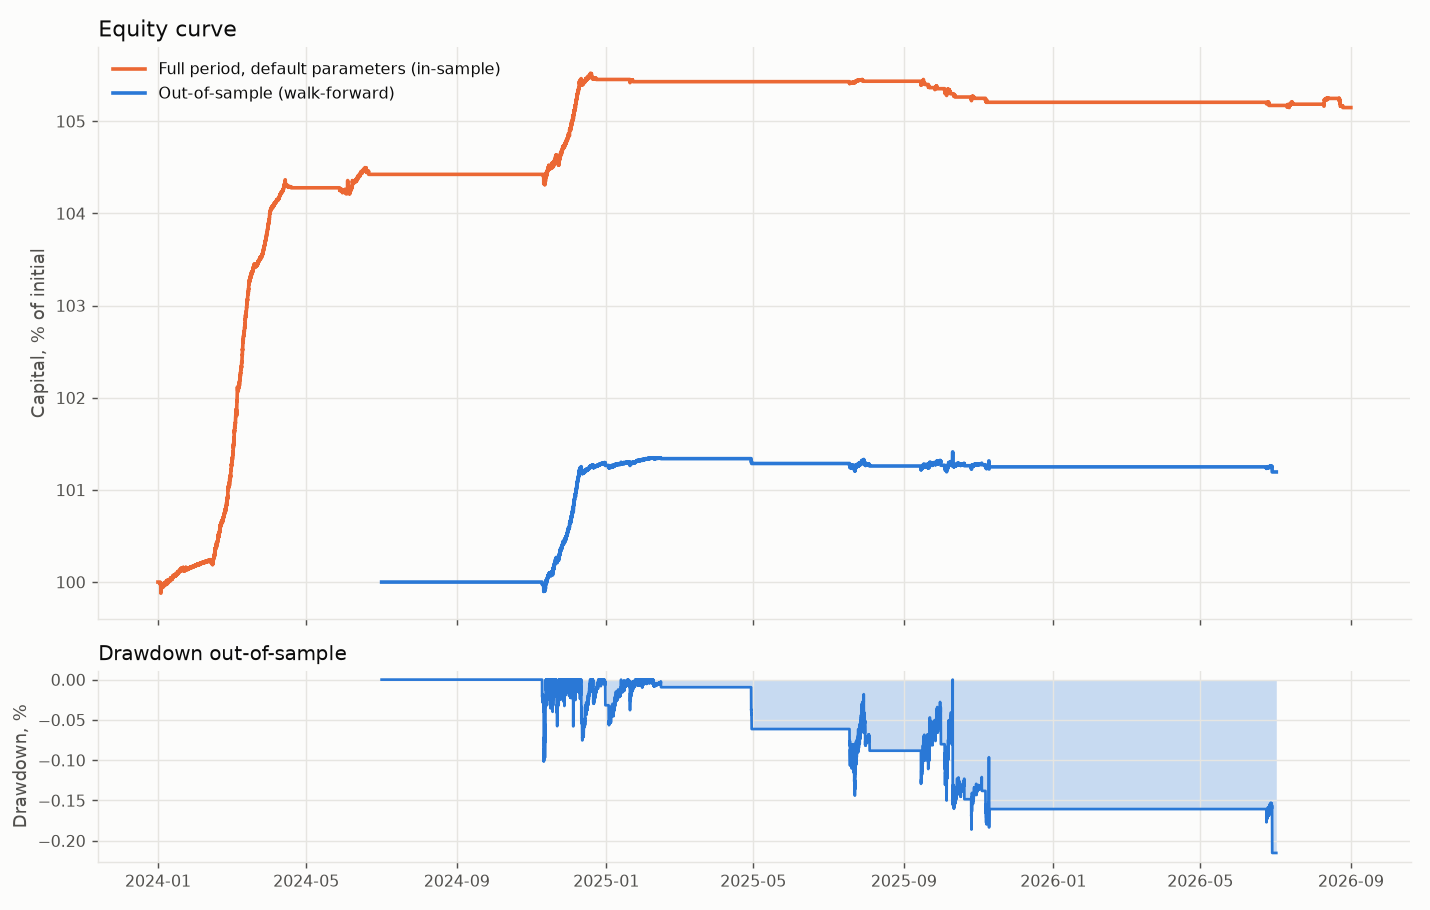
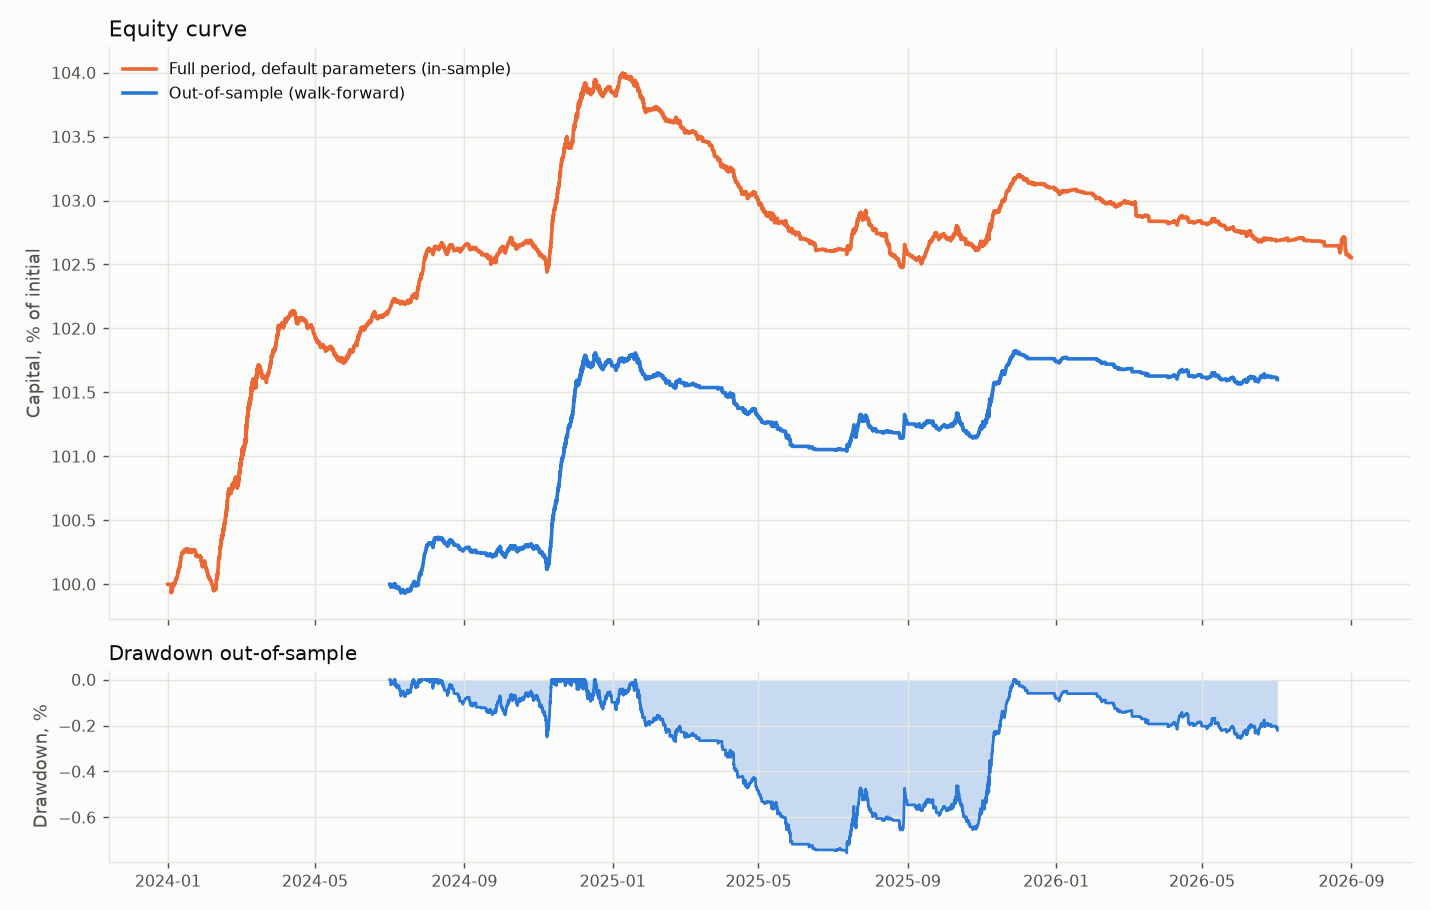
Generalise the walk-forward grid to any tunable strategy parameter
- grid is a mapping parameter -> candidates, validated against a fixed
  set of tunable fields; with_overrides validates and coerces types
- combinations with exit >= entry threshold are skipped
- default grids also tune funding_ewma_span and confirm_periods

Claude-Session: https://claude.ai/code/session_01D16U1kPXTnSZu54FLiUysV

diff --git a/src/fundarb/core/config.py b/src/fundarb/core/config.py
@@ -116,16 +116,35 @@ class ExchangeEvent(_Strict):
         return value
 
 
-class WalkForwardGrid(_Strict):
-    entry_threshold_apr: list[float] = Field(min_length=1)
-    exit_threshold_apr: list[float] = Field(min_length=1)
-    hold_horizon_periods: list[int] = Field(min_length=1)
+GRID_PARAMS = frozenset(
+    {
+        "entry_threshold_apr",
+        "exit_threshold_apr",
+        "rotation_margin_apr",
+        "confirm_periods",
+        "funding_ewma_span",
+        "hold_horizon_periods",
+        "max_asset_pct",
+        "max_positions",
+    }
+)
 
 
 class WalkForwardSettings(_Strict):
     train_months: int = Field(default=6, ge=1)
     test_months: int = Field(default=3, ge=1)
-    grid: WalkForwardGrid
+    grid: dict[str, list[float]]  # strategy parameter -> candidate values
+
+    @field_validator("grid")
+    @classmethod
+    def _known_params(cls, value: dict[str, list[float]]) -> dict[str, list[float]]:
+        unknown = sorted(set(value) - GRID_PARAMS)
+        if unknown:
+            raise ValueError(f"grid parameters not tunable: {unknown}")
+        empty = [k for k, v in value.items() if not v]
+        if empty:
+            raise ValueError(f"grid parameters without values: {empty}")
+        return value
 
 
 class BacktestSettings(_Strict):
@@ -168,7 +187,8 @@ class StrategyParams(_Strict):
     backtest: BacktestSettings
 
     def with_overrides(self, **overrides: object) -> StrategyParams:
-        return self.model_copy(update=overrides)
+        """A validated copy: types are coerced (a grid may hand an int field a float)."""
+        return StrategyParams.model_validate({**self.model_dump(), **overrides})
 
 
 def _read_yaml(path: Path) -> dict[str, object]:

diff --git a/tests/test_walkforward.py b/tests/test_walkforward.py
@@ -67,9 +67,11 @@ def test_walk_forward_end_to_end(
     dataset = build_dataset(ParquetStore(tmp_path, "fake"))
     small_grid = params.backtest.walk_forward.model_copy(
         update={
-            "grid": params.backtest.walk_forward.grid.model_copy(
-                update={"entry_threshold_apr": [0.08, 0.2], "exit_threshold_apr": [0.04]}
-            )
+            "grid": {
+                "entry_threshold_apr": [0.08, 0.2],
+                "exit_threshold_apr": [0.04],
+                "hold_horizon_periods": [9, 30, 90],
+            }
         }
     )
     settings = params.backtest.model_copy(update={"walk_forward": small_grid})

diff --git a/tests/test_pair_backtest.py b/tests/test_pair_backtest.py
@@ -153,9 +153,11 @@ def test_pair_walk_forward_uses_pair_engine(
         update={
             "walk_forward": params.backtest.walk_forward.model_copy(
                 update={
-                    "grid": params.backtest.walk_forward.grid.model_copy(
-                        update={"entry_threshold_apr": [0.08], "exit_threshold_apr": [0.04]}
-                    )
+                    "grid": {
+                        "entry_threshold_apr": [0.08],
+                        "exit_threshold_apr": [0.04],
+                        "hold_horizon_periods": [9, 30, 90],
+                    }
                 }
             )
         }

diff --git a/src/fundarb/backtest/walkforward.py b/src/fundarb/backtest/walkforward.py
@@ -180,7 +180,12 @@ def run_walk_forward(
         )
         for f in make_folds(index, wf.train_months, wf.test_months)
     ]
-    candidates = grid_candidates(wf.grid.model_dump())
+    candidates = [
+        c
+        for c in grid_candidates(wf.grid)
+        if float(c.get("exit_threshold_apr", params.exit_threshold_apr))  # type: ignore[arg-type]
+        < float(c.get("entry_threshold_apr", params.entry_threshold_apr))  # type: ignore[arg-type]
+    ]
     out = WalkForwardResult(grid_size=len(candidates))
     if not folds:
         out.skipped_reason = (

diff --git a/reports/latest.md b/reports/latest.md
@@ -1,10 +1,10 @@
 # Backtest report: funding-rate arbitrage
 
-Generated 2026-09-27 15:41 UTC. Exchange: `binance_vision`. Initial capital: 10 000 $.
+Generated 2026-09-27 17:14 UTC. Exchange: `binance_vision + hyperliquid`. Mode: cross-venue perp-perp (long one venue, short the other). Initial capital: 10 000 $.
 
 ## Summary
 
-Result on the out-of-sample walk-forward folds: positive, 0.6% annualised with a max drawdown of 0.2% over 27 trades. Costs took 46.0% of gross income.
+Result on the out-of-sample walk-forward folds: positive, 0.8% annualised with a max drawdown of 0.8% over 291 trades. Costs took 79.5% of gross income.
 
 ## Out-of-sample (the numbers that matter)
 
@@ -13,113 +13,111 @@ Grid of 18 combinations, 8 folds. Parameters were tuned on the training window o
 | Metric | Value |
 |---|---|
 | Period | 2024-07-01 to 2026-07-02 (730 days) |
-| Capital, start to end | 10 000 $ to 10 119 $ |
-| Return over the period | 1.2% |
-| Annualised return | 0.6% |
-| Sharpe (daily returns) | 2.37 |
-| Max drawdown | 0.2% |
-| Trades (full round trips) | 27, partial reductions 6 |
-| Winning trades | 59.3% |
-| Average holding time | 15.9 days |
-| Time in market | 21.8% |
-| Annual turnover (x capital) | 2.6x |
-| Funding received | 193 $ |
-| Basis P&L (spot minus perp, at mid prices) | 28 $ |
-| Exchange fees | 68 $ |
-| Spread and slippage | 34 $ |
-| All costs as a share of gross income | 46.0% |
-| Hard stops, margin top-ups, reductions | 0, 49, 6 |
+| Capital, start to end | 10 000 $ to 10 160 $ |
+| Return over the period | 1.6% |
+| Annualised return | 0.8% |
+| Sharpe (daily returns) | 2.13 |
+| Max drawdown | 0.8% |
+| Trades (full round trips) | 291, partial reductions 6 |
+| Winning trades | 30.6% |
+| Average holding time | 5.4 days |
+| Time in market | 73.0% |
+| Annual turnover (x capital) | 22.8x |
+| Funding received | 780 $ |
+| Basis P&L (spot minus perp, at mid prices) | 0 $ |
+| Exchange fees | 301 $ |
+| Spread and slippage | 320 $ |
+| All costs as a share of gross income | 79.5% |
+| Hard stops, margin top-ups, reductions | 0, 347, 6 |
 | Rejected entries (not enough cash or size) | 0 |
 
 | Fold | Training | Test | Chosen parameters | Train Sharpe | Train return | Test return | Test drawdown | Test trades |
 |---|---|---|---|---|---|---|---|---|
-| 1 | 2024-01-01 to 2024-07-01 | 2024-07-01 to 2024-09-30 | entry_threshold_apr=0.12, exit_threshold_apr=0.02, hold_horizon_periods=180 | 11.46 | 5.3% | 0.0% | -0.0% | 0 |
-| 2 | 2024-04-01 to 2024-09-30 | 2024-09-30 to 2024-12-31 | entry_threshold_apr=0.12, exit_threshold_apr=0.04, hold_horizon_periods=180 | 3.06 | 0.5% | 1.3% | 0.1% | 7 |
-| 3 | 2024-07-01 to 2024-12-31 | 2024-12-31 to 2025-04-01 | entry_threshold_apr=0.12, exit_threshold_apr=0.02, hold_horizon_periods=180 | 6.14 | 1.3% | 0.1% | 0.0% | 2 |
-| 4 | 2024-09-30 to 2025-04-01 | 2025-04-01 to 2025-07-01 | entry_threshold_apr=0.12, exit_threshold_apr=0.02, hold_horizon_periods=180 | 7.33 | 1.6% | -0.1% | 0.1% | 1 |
-| 5 | 2024-12-31 to 2025-07-01 | 2025-07-01 to 2025-10-01 | entry_threshold_apr=0.12, exit_threshold_apr=0.02, hold_horizon_periods=180 | 0.45 | 0.0% | -0.0% | 0.1% | 9 |
-| 6 | 2025-04-01 to 2025-10-01 | 2025-10-01 to 2025-12-31 | entry_threshold_apr=0.12, exit_threshold_apr=0.02, hold_horizon_periods=180 | -0.90 | -0.1% | -0.0% | 0.2% | 7 |
-| 7 | 2025-07-01 to 2025-12-31 | 2025-12-31 to 2026-04-01 | entry_threshold_apr=0.12, exit_threshold_apr=0.02, hold_horizon_periods=180 | -0.07 | -0.0% | 0.0% | -0.0% | 0 |
-| 8 | 2025-10-01 to 2026-04-01 | 2026-04-01 to 2026-07-02 | entry_threshold_apr=0.12, exit_threshold_apr=0.02, hold_horizon_periods=180 | -0.24 | -0.0% | -0.1% | 0.1% | 1 |
+| 1 | 2024-01-01 to 2024-07-01 | 2024-07-01 to 2024-09-30 | entry_threshold_apr=0.12, exit_threshold_apr=0.02, hold_horizon_periods=30 | 8.48 | 2.5% | 0.3% | 0.2% | 35 |
+| 2 | 2024-04-01 to 2024-09-30 | 2024-09-30 to 2024-12-31 | entry_threshold_apr=0.12, exit_threshold_apr=0.02, hold_horizon_periods=90 | 3.63 | 0.7% | 1.5% | 0.2% | 82 |
+| 3 | 2024-07-01 to 2024-12-31 | 2024-12-31 to 2025-04-01 | entry_threshold_apr=0.12, exit_threshold_apr=0.02, hold_horizon_periods=30 | 7.28 | 1.9% | -0.2% | 0.3% | 36 |
+| 4 | 2024-09-30 to 2025-04-01 | 2025-04-01 to 2025-07-01 | entry_threshold_apr=0.12, exit_threshold_apr=0.02, hold_horizon_periods=30 | 5.33 | 1.4% | -0.4% | 0.4% | 36 |
+| 5 | 2024-12-31 to 2025-07-01 | 2025-07-01 to 2025-10-01 | entry_threshold_apr=0.12, exit_threshold_apr=0.02, hold_horizon_periods=30 | -4.98 | -0.6% | 0.2% | 0.2% | 41 |
+| 6 | 2025-04-01 to 2025-10-01 | 2025-10-01 to 2025-12-31 | entry_threshold_apr=0.12, exit_threshold_apr=0.02, hold_horizon_periods=30 | -1.62 | -0.3% | 0.5% | 0.2% | 27 |
+| 7 | 2025-07-01 to 2025-12-31 | 2025-12-31 to 2026-04-01 | entry_threshold_apr=0.12, exit_threshold_apr=0.02, hold_horizon_periods=30 | 3.78 | 0.7% | -0.1% | 0.1% | 8 |
+| 8 | 2025-10-01 to 2026-04-01 | 2026-04-01 to 2026-07-02 | entry_threshold_apr=0.12, exit_threshold_apr=0.02, hold_horizon_periods=90 | 3.20 | 0.5% | -0.0% | 0.1% | 26 |
 
 ## Full period with default parameters (reference, in-sample)
 
 | Metric | Value |
 |---|---|
 | Period | 2024-01-01 to 2026-08-31 (974 days) |
-| Capital, start to end | 10 000 $ to 10 515 $ |
-| Return over the period | 5.1% |
-| Annualised return | 1.9% |
-| Sharpe (daily returns) | 4.11 |
-| Max drawdown | 0.4% |
-| Trades (full round trips) | 46, partial reductions 14 |
-| Winning trades | 58.7% |
-| Average holding time | 19.7 days |
-| Time in market | 22.0% |
-| Annual turnover (x capital) | 3.1x |
-| Funding received | 636 $ |
-| Basis P&L (spot minus perp, at mid prices) | 54 $ |
-| Exchange fees | 119 $ |
-| Spread and slippage | 57 $ |
-| All costs as a share of gross income | 25.4% |
-| Hard stops, margin top-ups, reductions | 0, 88, 14 |
+| Capital, start to end | 10 000 $ to 10 255 $ |
+| Return over the period | 2.6% |
+| Annualised return | 0.9% |
+| Sharpe (daily returns) | 2.09 |
+| Max drawdown | 1.5% |
+| Trades (full round trips) | 665, partial reductions 1 |
+| Winning trades | 31.1% |
+| Average holding time | 5.4 days |
+| Time in market | 91.5% |
+| Annual turnover (x capital) | 38.4x |
+| Funding received | 1 672 $ |
+| Basis P&L (spot minus perp, at mid prices) | 0 $ |
+| Exchange fees | 683 $ |
+| Spread and slippage | 734 $ |
+| All costs as a share of gross income | 84.7% |
+| Hard stops, margin top-ups, reductions | 0, 684, 1 |
 | Rejected entries (not enough cash or size) | 0 |
 
 ### By coin (full period, default parameters)
 
 | Coin | Trades | Funding | Costs | Net |
 |---|---|---|---|---|
-| WLD | 3 | 132 $ | 8 $ | 123 $ |
-| FIL | 1 | 91 $ | 3 $ | 89 $ |
-| INJ | 3 | 93 $ | 8 $ | 86 $ |
-| ACE | 2 | 70 $ | 5 $ | 63 $ |
-| AVAX | 2 | 65 $ | 4 $ | 62 $ |
-| LINK | 1 | 31 $ | 4 $ | 27 $ |
-| FET | 3 | 26 $ | 5 $ | 19 $ |
-| PYTH | 2 | 19 $ | 5 $ | 18 $ |
-| SUI | 1 | 22 $ | 3 $ | 18 $ |
-| ETH | 2 | 23 $ | 6 $ | 17 $ |
-| ADA | 1 | 19 $ | 3 $ | 16 $ |
-| TAO | 1 | 8 $ | 3 $ | 5 $ |
-| other 13 | | | | -29 $ |
+| NEAR:binance_vision>hyperliquid | 35 | 180 $ | 45 $ | 90 $ |
+| ZEC:binance_vision>hyperliquid | 13 | 121 $ | 18 $ | 88 $ |
+| TAO:binance_vision>hyperliquid | 38 | 197 $ | 48 $ | 87 $ |
+| DOGE:binance_vision>hyperliquid | 22 | 116 $ | 15 $ | 83 $ |
+| ENA:binance_vision>hyperliquid | 42 | 135 $ | 55 $ | 23 $ |
+| AAVE:binance_vision>hyperliquid | 33 | 51 $ | 16 $ | 15 $ |
+| XPL:binance_vision>hyperliquid | 4 | 22 $ | 4 $ | 14 $ |
+| SOL:binance_vision>hyperliquid | 34 | 96 $ | 46 $ | 13 $ |
+| AVAX:binance_vision>hyperliquid | 20 | 35 $ | 10 $ | 13 $ |
+| LINK:binance_vision>hyperliquid | 21 | 49 $ | 17 $ | 11 $ |
+| LTC:binance_vision>hyperliquid | 11 | 38 $ | 12 $ | 11 $ |
+| INJ:binance_vision>hyperliquid | 21 | 31 $ | 8 $ | 10 $ |
+| other 32 | | | | -202 $ |
 
 ## Funding environment: what the market actually paid
 
-Across all coins and settlements: funding above 15% annualised in 4.4% of settlements, above 50% in 1.6%, negative in 26.5%. The strategy only earns on settlements above the entry threshold after costs; the rest of the time it waits in cash.
+Across all coins and settlements: funding above 15% annualised in 12.4% of settlements, above 50% in 2.4%, negative in 50.0%. The strategy only earns on settlements above the entry threshold after costs; the rest of the time it waits in cash.
 
 | Coin | Settlements | Mean funding, annualised | Median | Share above 15% | Share negative |
 |---|---|---|---|---|---|
-| GIGGLE | 1959 | 16.1% | 10.9% | 4.6% | 8.5% |
-| ASTER | 2078 | 10.5% | 10.9% | 4.3% | 18.1% |
-| PUMP | 2912 | 10.0% | 10.9% | 6.8% | 16.7% |
-| UNI | 2922 | 8.4% | 10.5% | 6.8% | 14.5% |
-| LTC | 2922 | 8.1% | 8.4% | 7.2% | 17.6% |
-| LINK | 2922 | 8.1% | 10.2% | 6.7% | 16.9% |
-| DOGE | 2922 | 7.5% | 7.6% | 7.6% | 21.9% |
-| ETH | 2922 | 7.1% | 6.3% | 6.9% | 15.8% |
-| BTC | 2922 | 7.1% | 6.2% | 5.9% | 15.1% |
-| XPL | 2246 | 7.1% | 10.9% | 0.9% | 14.4% |
-| ADA | 2922 | 7.0% | 10.3% | 7.2% | 22.7% |
-| NEAR | 2922 | 6.9% | 10.9% | 6.5% | 22.8% |
-| FIL | 2922 | 6.7% | 10.9% | 8.2% | 22.1% |
-| AAVE | 2922 | 6.6% | 7.5% | 5.3% | 20.7% |
-| XRP | 2922 | 6.5% | 7.2% | 7.1% | 26.4% |
-| ... 45 more coins | | | | | |
+| GRAM:binance_vision>hyperliquid | 182 | 16.3% | 5.7% | 37.4% | 14.8% |
+| ZEC:binance_vision>hyperliquid | 758 | 16.2% | 6.5% | 31.0% | 24.1% |
+| TAO:binance_vision>hyperliquid | 2618 | 12.7% | 5.8% | 28.8% | 16.8% |
+| AAVE:binance_vision>hyperliquid | 2368 | 11.0% | 5.9% | 24.2% | 15.4% |
+| DOGE:binance_vision>hyperliquid | 2368 | 10.3% | 3.8% | 20.3% | 28.0% |
+| NEAR:binance_vision>hyperliquid | 2368 | 10.1% | 3.9% | 25.8% | 23.5% |
+| ENA:binance_vision>hyperliquid | 2645 | 8.2% | 4.1% | 25.8% | 35.0% |
+| INJ:binance_vision>hyperliquid | 2368 | 8.0% | 1.2% | 21.2% | 31.9% |
+| LINK:binance_vision>hyperliquid | 2368 | 7.7% | 3.0% | 17.8% | 23.0% |
+| SOL:binance_vision>hyperliquid | 2368 | 7.2% | 4.5% | 20.1% | 30.4% |
+| BNB:binance_vision>hyperliquid | 2368 | 6.8% | 7.7% | 13.6% | 28.4% |
+| XPL:binance_vision>hyperliquid | 1124 | 6.3% | 2.1% | 10.3% | 26.8% |
+| BTC:binance_vision>hyperliquid | 2368 | 6.0% | 3.8% | 13.8% | 25.3% |
+| AVAX:binance_vision>hyperliquid | 2368 | 5.5% | 2.1% | 20.4% | 31.8% |
+| PUMP:binance_vision>hyperliquid | 1254 | 5.4% | 4.2% | 13.6% | 25.4% |
+| ... 33 more coins | | | | | |
 
 ## Data coverage
 
-- Source: exchange `binance_vision`, timeframe `1h`, last sync `2026-09-27T10:36:39.968172+00:00`.
-- Coin selection rule: top by min(spot, perp) 24h volume at selection time.
-- Coins in data: 60, usable: 60.
+- Source: exchange `binance_vision + hyperliquid`, timeframe `1h`, last sync `2026-09-27T10:36:39.968172+00:00 / 2026-09-27T17:13:36.724908+00:00`.
+- Coin selection rule: coins present on both venues.
+- Coins in data: 24, usable: 24.
 - Range: 2024-01-01 to 2026-08-31.
-- **Warnings (2):**
-  - DEXE: funding interval from data is 4h, reference says 1h; using the data
-  - ONG: funding interval from data is 4h, reference says 1h; using the data
+- No warnings.
 
 ## Assumptions and caveats
 
-- **Data source: Binance public archive used as a stand-in for Bybit. Bybit funding rates differ.**
-- Fees: spot maker 10.0 bps, taker 10.0 bps; perp maker 2.0 bps, taker 5.5 bps. Check your own tier on the exchange; defaults are public non-VIP rates.
+- **Data source: Binance archive (funding, prices) plus Hyperliquid info API (funding). Venue basis is not modelled; fees are each venue's public base tier.**
+- Fees: spot maker 2.0 bps, taker 5.0 bps; perp maker 1.5 bps, taker 4.5 bps. Check your own tier on the exchange; defaults are public non-VIP rates.
 - Spread: no order-book history, 5.0 bps assumed on each leg.
 - Slippage: 100.0 bps per 100% of one minute's volume.
 - Short-leg margin is isolated, maintenance rate 1.00%. Stricter than a unified account.
@@ -136,7 +134,7 @@ rotation_margin_apr: 0.05
 confirm_periods: 3
 funding_ewma_span: 6
 hold_horizon_periods: 90
-min_24h_volume_usd: 20000000.0
+min_24h_volume_usd: 5000000.0
 max_spread_bps: 5.0
 max_order_pct_of_1min_volume: 5.0
 max_hedge_slippage_bps: 10.0
@@ -148,6 +146,7 @@ min_notional_usd: 100.0
 max_leverage_perp: 2.0
 min_liq_distance_pct: 40.0
 cash_reserve_pct: 15.0
+long_leg: perp
 stale_data_sec: 5.0
 daily_dd_hard_stop_pct: 3.0
 reconcile_interval_sec: 60
